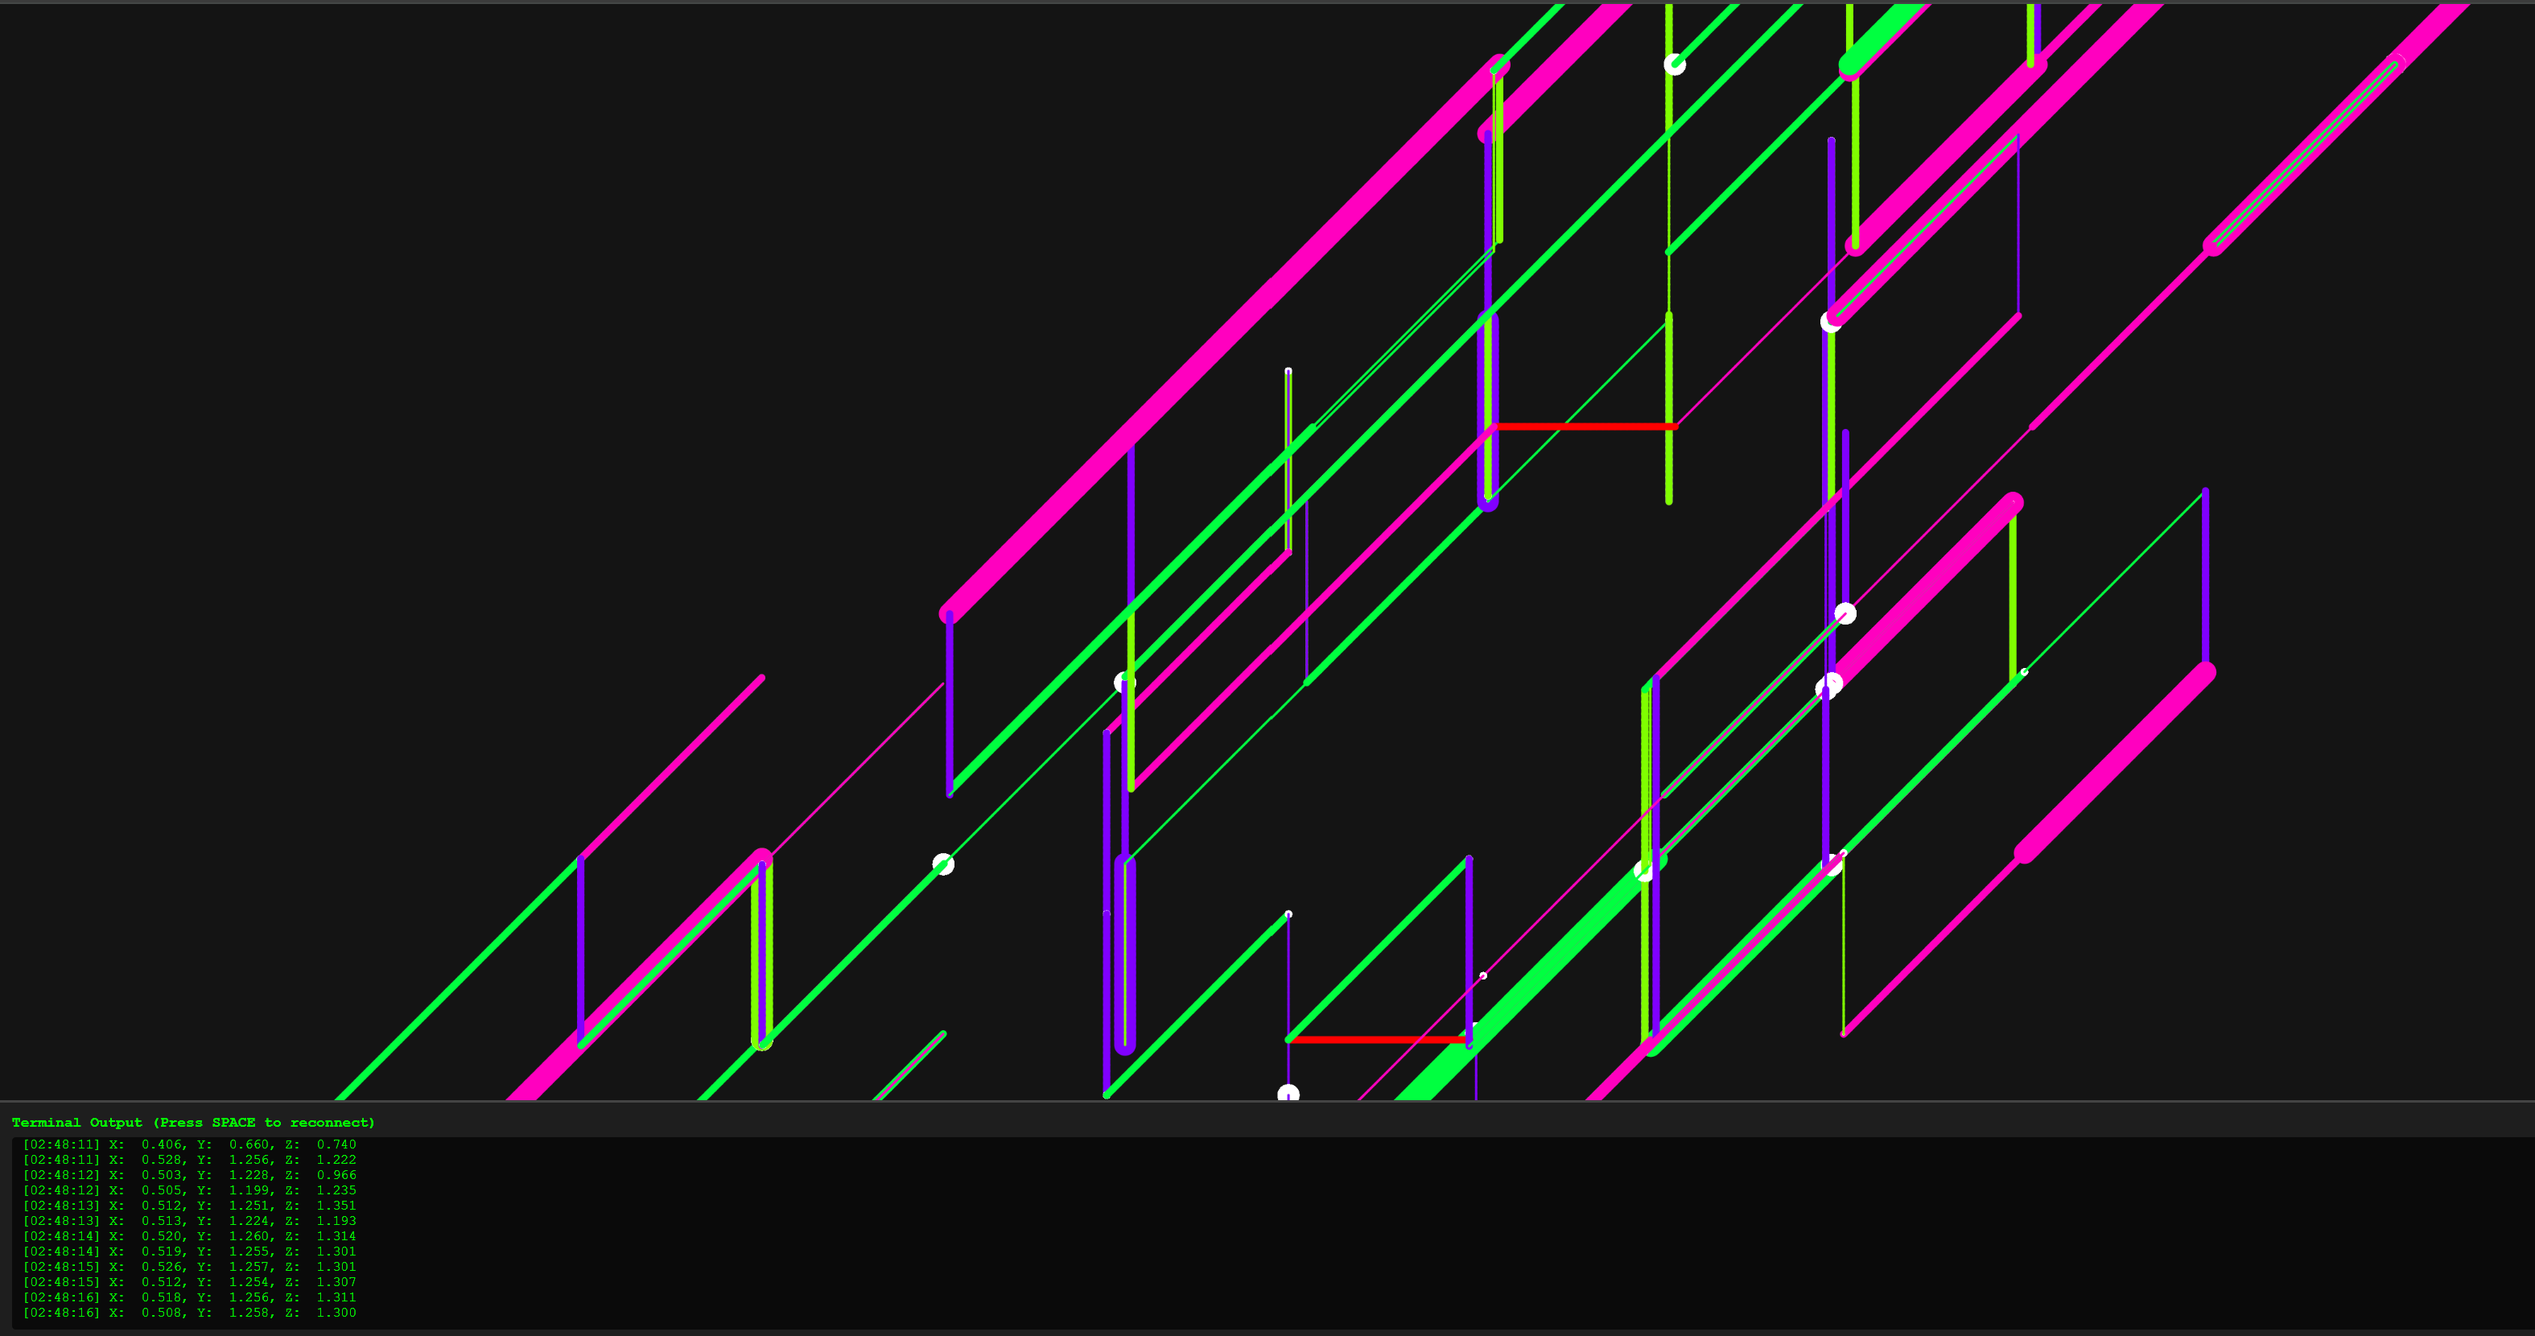
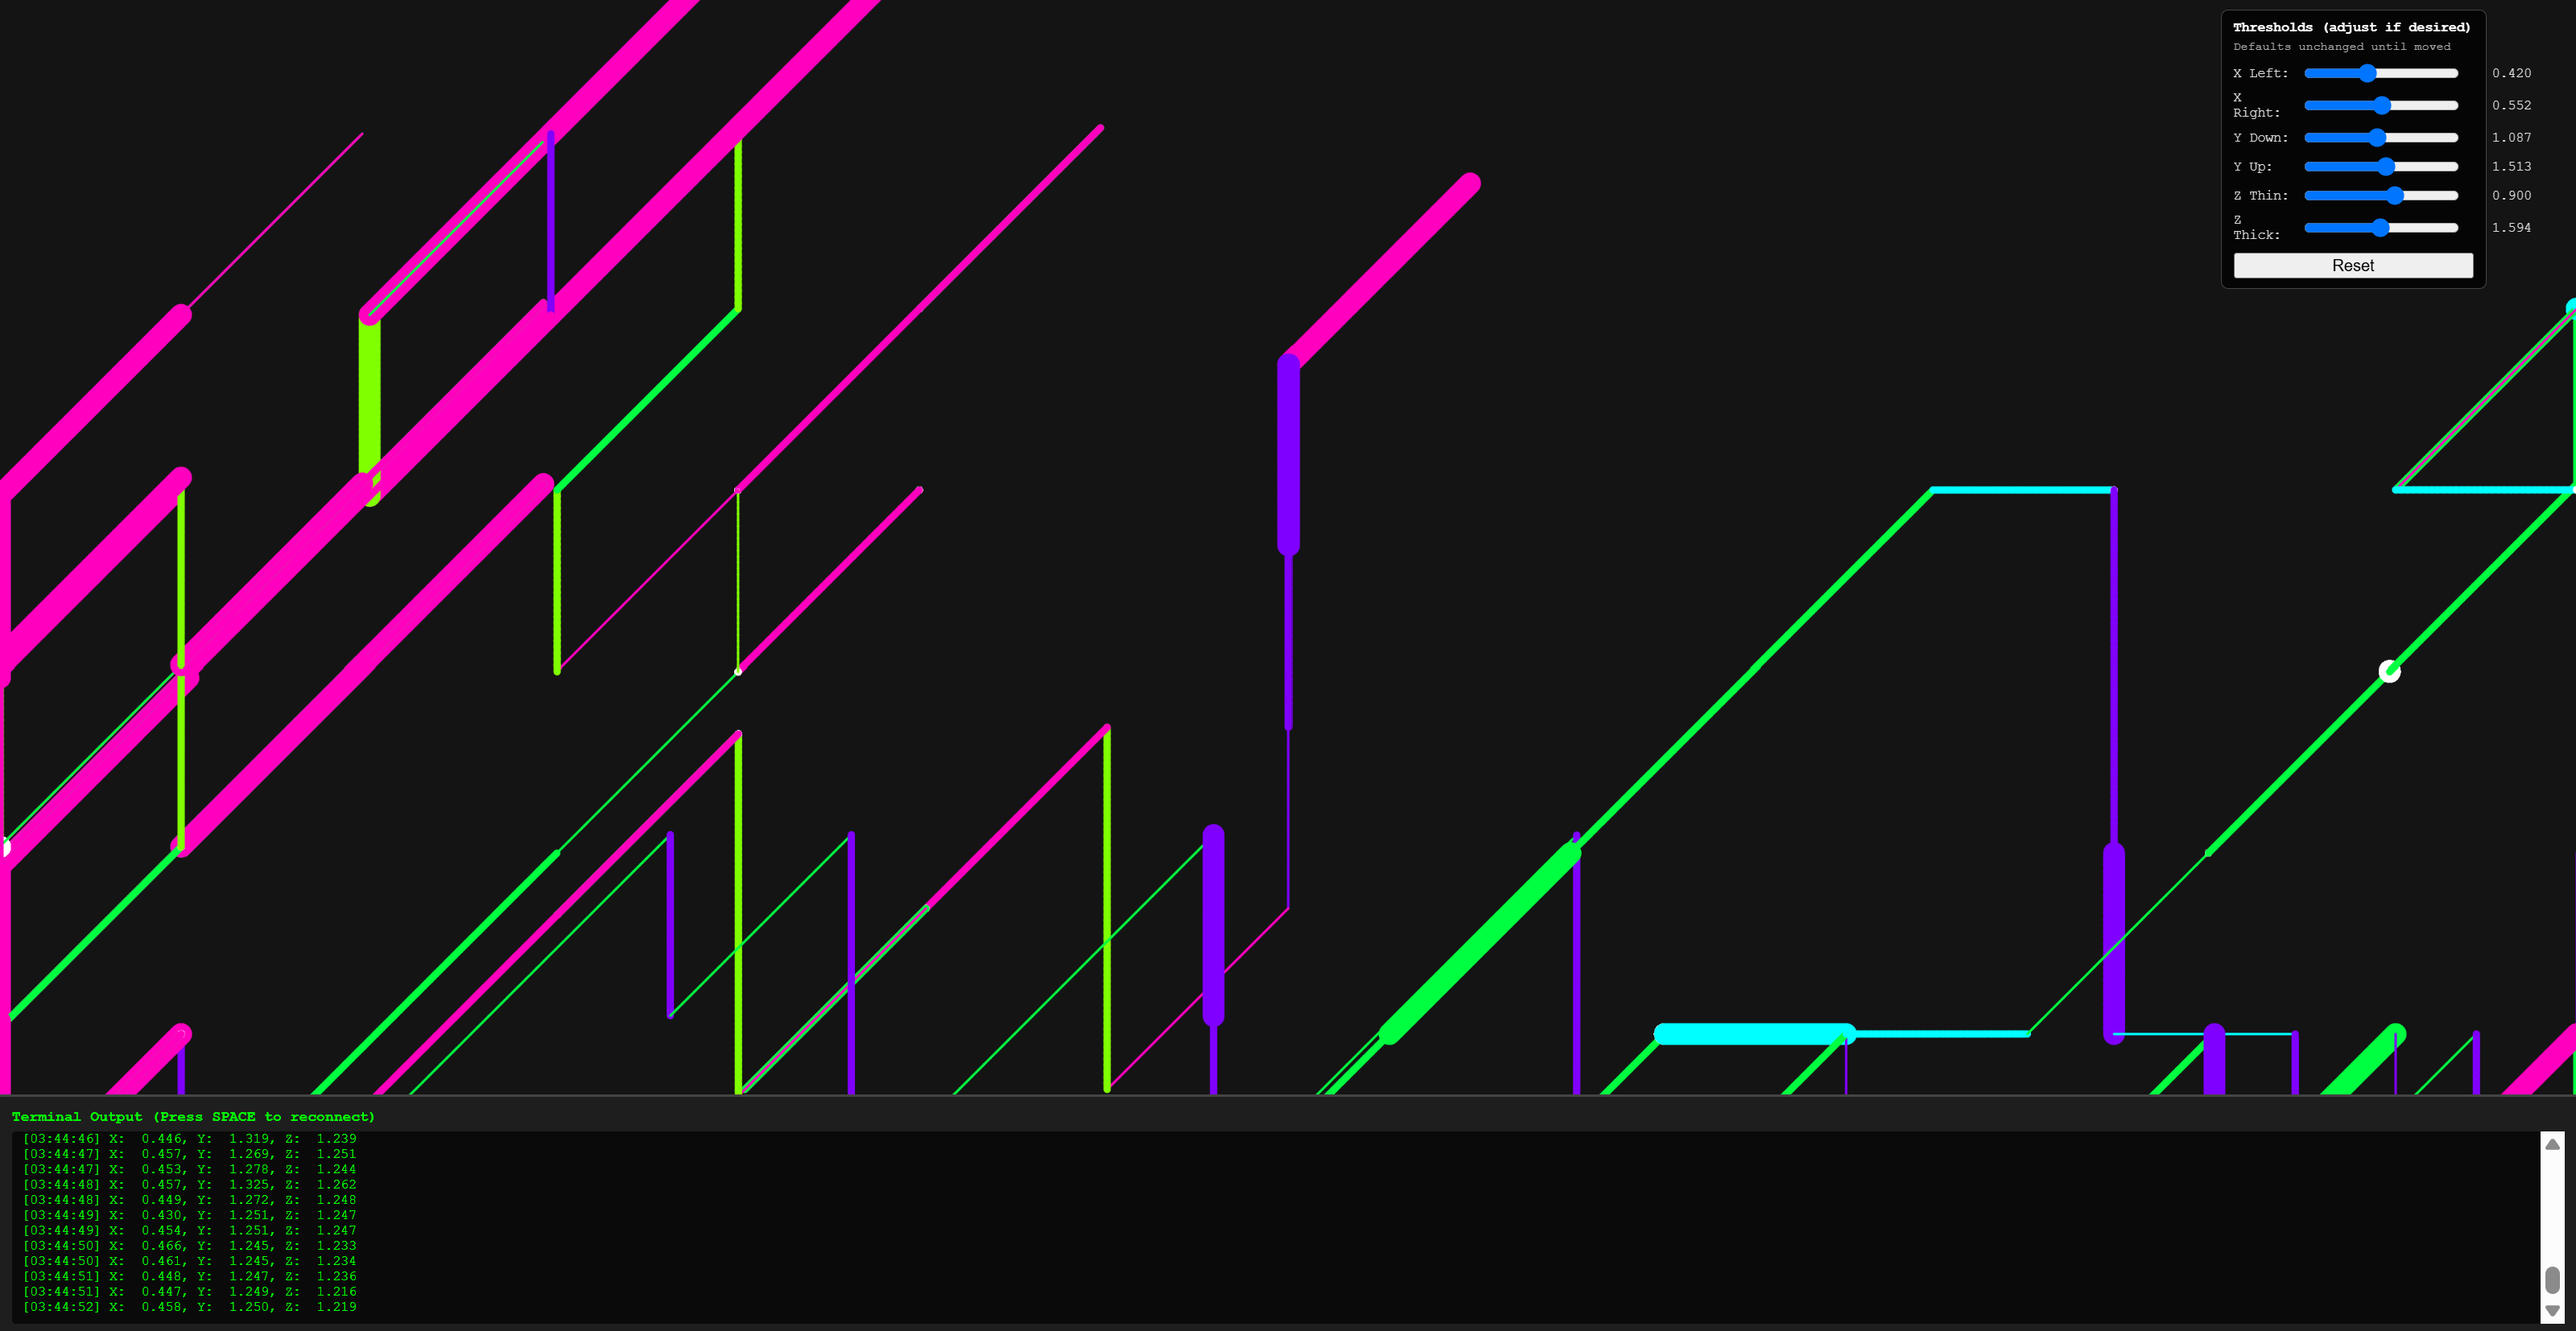
Added threshold sliders

diff --git a/sketch.js b/sketch.js
@@ -38,6 +38,19 @@ const Y_DOWN_THRESHOLD = 1.087; // lower = down
 const Y_UP_THRESHOLD = 1.513; // higher = up
 const Z_THIN_THRESHOLD = 0.900; // lower = thin
 const Z_THICK_THRESHOLD = 1.594; // higher = thick
+// Mutable copies used by UI sliders (defaults preserved; logic will reference these)
+let xLeftThresh = X_LEFT_THRESHOLD;
+let xRightThresh = X_RIGHT_THRESHOLD;
+let yDownThresh = Y_DOWN_THRESHOLD;
+let yUpThresh = Y_UP_THRESHOLD;
+let zThinThresh = Z_THIN_THRESHOLD;
+let zThickThresh = Z_THICK_THRESHOLD;
+
+// UI elements for thresholds
+let uiContainer;
+let sliderElems = {};
+let valueSpans = {};
+let resetBtn;
 
 // Movement speed in pixels per second when a threshold is active
 const MOVE_SPEED = 300; // adjust as desired
@@ -126,6 +139,9 @@ async function setup() {
   
   // Automatically open Serial device selector on page load
   await connectToDevice();
+
+  // Create threshold UI (top-right overlay)
+  createThresholdUI();
   
   // Handle window resize
   window.addEventListener('resize', windowResized);
@@ -149,12 +165,12 @@ function draw() {
   let dx = 0;
   let dy = 0;
   if (xVolt !== null) {
-    if (xVolt < X_LEFT_THRESHOLD) dx = -MOVE_SPEED;
-    else if (xVolt > X_RIGHT_THRESHOLD) dx = MOVE_SPEED;
+    if (xVolt < xLeftThresh) dx = -MOVE_SPEED;
+    else if (xVolt > xRightThresh) dx = MOVE_SPEED;
   }
   if (yVolt !== null) {
-    if (yVolt < Y_DOWN_THRESHOLD) dy = MOVE_SPEED; // canvas y increases downward
-    else if (yVolt > Y_UP_THRESHOLD) dy = -MOVE_SPEED;
+    if (yVolt < yDownThresh) dy = MOVE_SPEED; // canvas y increases downward
+    else if (yVolt > yUpThresh) dy = -MOVE_SPEED;
   }
 
   // Integrate position with constant speed while thresholds are active
@@ -168,8 +184,8 @@ function draw() {
   // Brush thickness from Z absolute thresholds
   let brushSize = 4; // default mid
   if (zVolt !== null) {
-    if (zVolt < Z_THIN_THRESHOLD) brushSize = 2;
-    else if (zVolt > Z_THICK_THRESHOLD) brushSize = 18; // thicker
+    if (zVolt < zThinThresh) brushSize = 2;
+    else if (zVolt > zThickThresh) brushSize = 18; // thicker
     else brushSize = 6;
   }
 
@@ -191,6 +207,112 @@ function draw() {
   }
   prevDrawX = integratedX;
   prevDrawY = integratedY;
+}
+
+// Build the slider UI without altering the original defaults
+function createThresholdUI() {
+  uiContainer = createDiv();
+  uiContainer.parent(containerDiv);
+  uiContainer.style('position', 'absolute');
+  uiContainer.style('top', '10px');
+  uiContainer.style('right', '75px');
+  uiContainer.style('background', 'rgba(0,0,0,0.75)');
+  uiContainer.style('border', '1px solid #444');
+  uiContainer.style('padding', '8px 10px');
+  uiContainer.style('border-radius', '6px');
+  uiContainer.style('font-family', 'Courier New, monospace');
+  uiContainer.style('color', '#ddd');
+  uiContainer.style('z-index', '1000');
+  uiContainer.style('max-width', '220px');
+  uiContainer.style('font-size', '11px');
+
+  const title = createDiv('Thresholds (adjust if desired)');
+  title.parent(uiContainer);
+  title.style('font-weight', 'bold');
+  title.style('margin-bottom', '4px');
+  title.style('color', '#fff');
+
+  const defsNotice = createDiv('Defaults unchanged until moved');
+  defsNotice.parent(uiContainer);
+  defsNotice.style('font-size', '10px');
+  defsNotice.style('color', '#aaa');
+  defsNotice.style('margin-bottom', '6px');
+
+  const slidersConfig = [
+    { key: 'xLeft', label: 'X Left',    min: 0.30, max: 0.60, step: 0.001, get: () => xLeftThresh,    set: v => xLeftThresh = v },
+    { key: 'xRight', label: 'X Right',  min: 0.40, max: 0.70, step: 0.001, get: () => xRightThresh,  set: v => xRightThresh = v },
+    { key: 'yDown', label: 'Y Down',    min: 0.90, max: 1.30, step: 0.001, get: () => yDownThresh,   set: v => yDownThresh = v },
+    { key: 'yUp',   label: 'Y Up',      min: 1.30, max: 1.70, step: 0.001, get: () => yUpThresh,     set: v => yUpThresh = v },
+    { key: 'zThin', label: 'Z Thin',    min: 0.60, max: 1.10, step: 0.001, get: () => zThinThresh,   set: v => zThinThresh = v },
+    { key: 'zThick',label: 'Z Thick',   min: 1.30, max: 1.90, step: 0.001, get: () => zThickThresh,  set: v => zThickThresh = v },
+  ];
+
+  slidersConfig.forEach(cfg => {
+    const row = createDiv();
+    row.parent(uiContainer);
+    row.style('display', 'flex');
+    row.style('align-items', 'center');
+    row.style('gap', '4px');
+    row.style('margin-bottom', '4px');
+
+    const label = createSpan(cfg.label + ':');
+    label.parent(row);
+    label.style('flex', '0 0 52px');
+
+    const slider = createSlider(cfg.min, cfg.max, cfg.get(), cfg.step);
+    slider.parent(row);
+    slider.style('flex', '1');
+    slider.input(() => {
+      cfg.set(Number(slider.value()));
+      updateThresholdUI();
+    });
+    sliderElems[cfg.key] = slider;
+
+    const valSpan = createSpan(formatThresh(cfg.get()));
+    valSpan.parent(row);
+    valSpan.style('flex', '0 0 54px');
+    valSpan.style('text-align', 'right');
+    valueSpans[cfg.key] = valSpan;
+  });
+
+  resetBtn = createButton('Reset');
+  resetBtn.parent(uiContainer);
+  resetBtn.style('width', '100%');
+  resetBtn.style('margin-top', '4px');
+  resetBtn.mousePressed(() => resetThresholds());
+
+  updateThresholdUI();
+}
+
+function formatThresh(v) {
+  return (typeof v === 'number') ? v.toFixed(3) : '--';
+}
+
+function updateThresholdUI() {
+  if (!valueSpans) return;
+  valueSpans['xLeft'] && valueSpans['xLeft'].html(formatThresh(xLeftThresh));
+  valueSpans['xRight'] && valueSpans['xRight'].html(formatThresh(xRightThresh));
+  valueSpans['yDown'] && valueSpans['yDown'].html(formatThresh(yDownThresh));
+  valueSpans['yUp'] && valueSpans['yUp'].html(formatThresh(yUpThresh));
+  valueSpans['zThin'] && valueSpans['zThin'].html(formatThresh(zThinThresh));
+  valueSpans['zThick'] && valueSpans['zThick'].html(formatThresh(zThickThresh));
+}
+
+function resetThresholds() {
+  xLeftThresh = X_LEFT_THRESHOLD;
+  xRightThresh = X_RIGHT_THRESHOLD;
+  yDownThresh = Y_DOWN_THRESHOLD;
+  yUpThresh = Y_UP_THRESHOLD;
+  zThinThresh = Z_THIN_THRESHOLD;
+  zThickThresh = Z_THICK_THRESHOLD;
+  // Update sliders to defaults
+  sliderElems['xLeft'] && sliderElems['xLeft'].value(xLeftThresh);
+  sliderElems['xRight'] && sliderElems['xRight'].value(xRightThresh);
+  sliderElems['yDown'] && sliderElems['yDown'].value(yDownThresh);
+  sliderElems['yUp'] && sliderElems['yUp'].value(yUpThresh);
+  sliderElems['zThin'] && sliderElems['zThin'].value(zThinThresh);
+  sliderElems['zThick'] && sliderElems['zThick'].value(zThickThresh);
+  updateThresholdUI();
 }
 
 function updateDisplay() {
